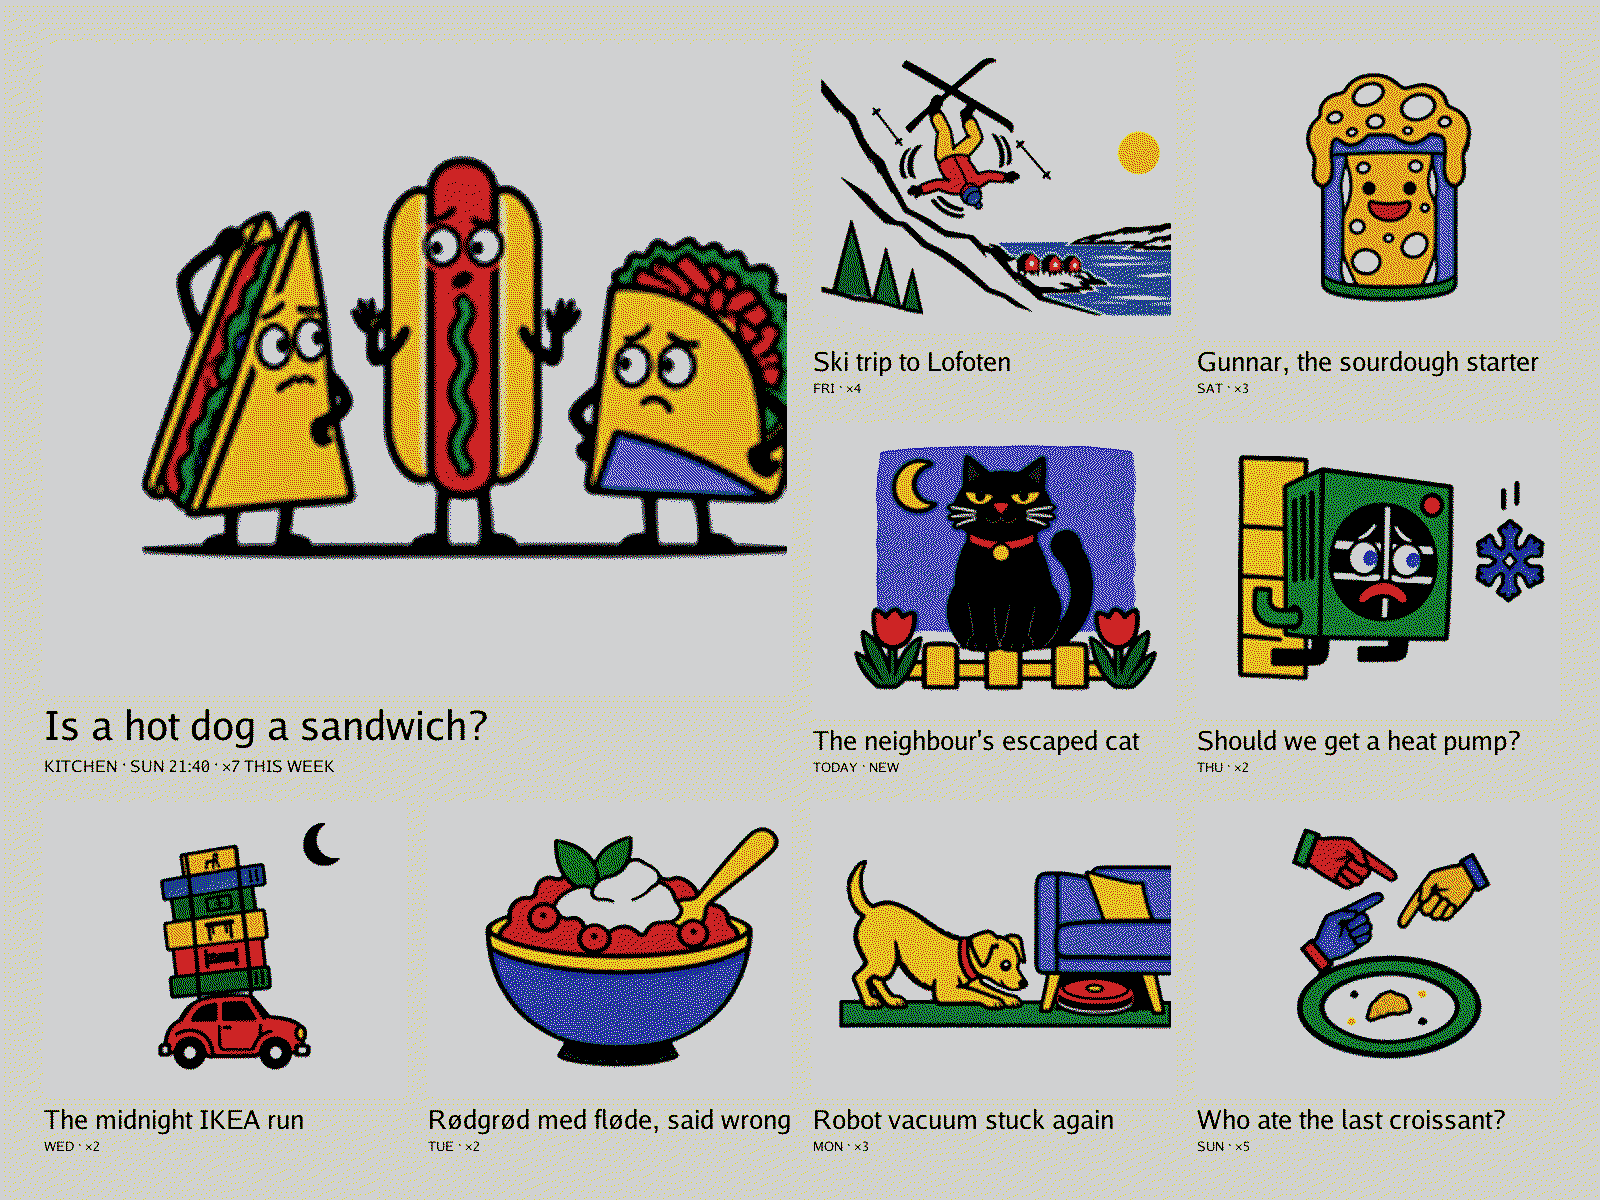
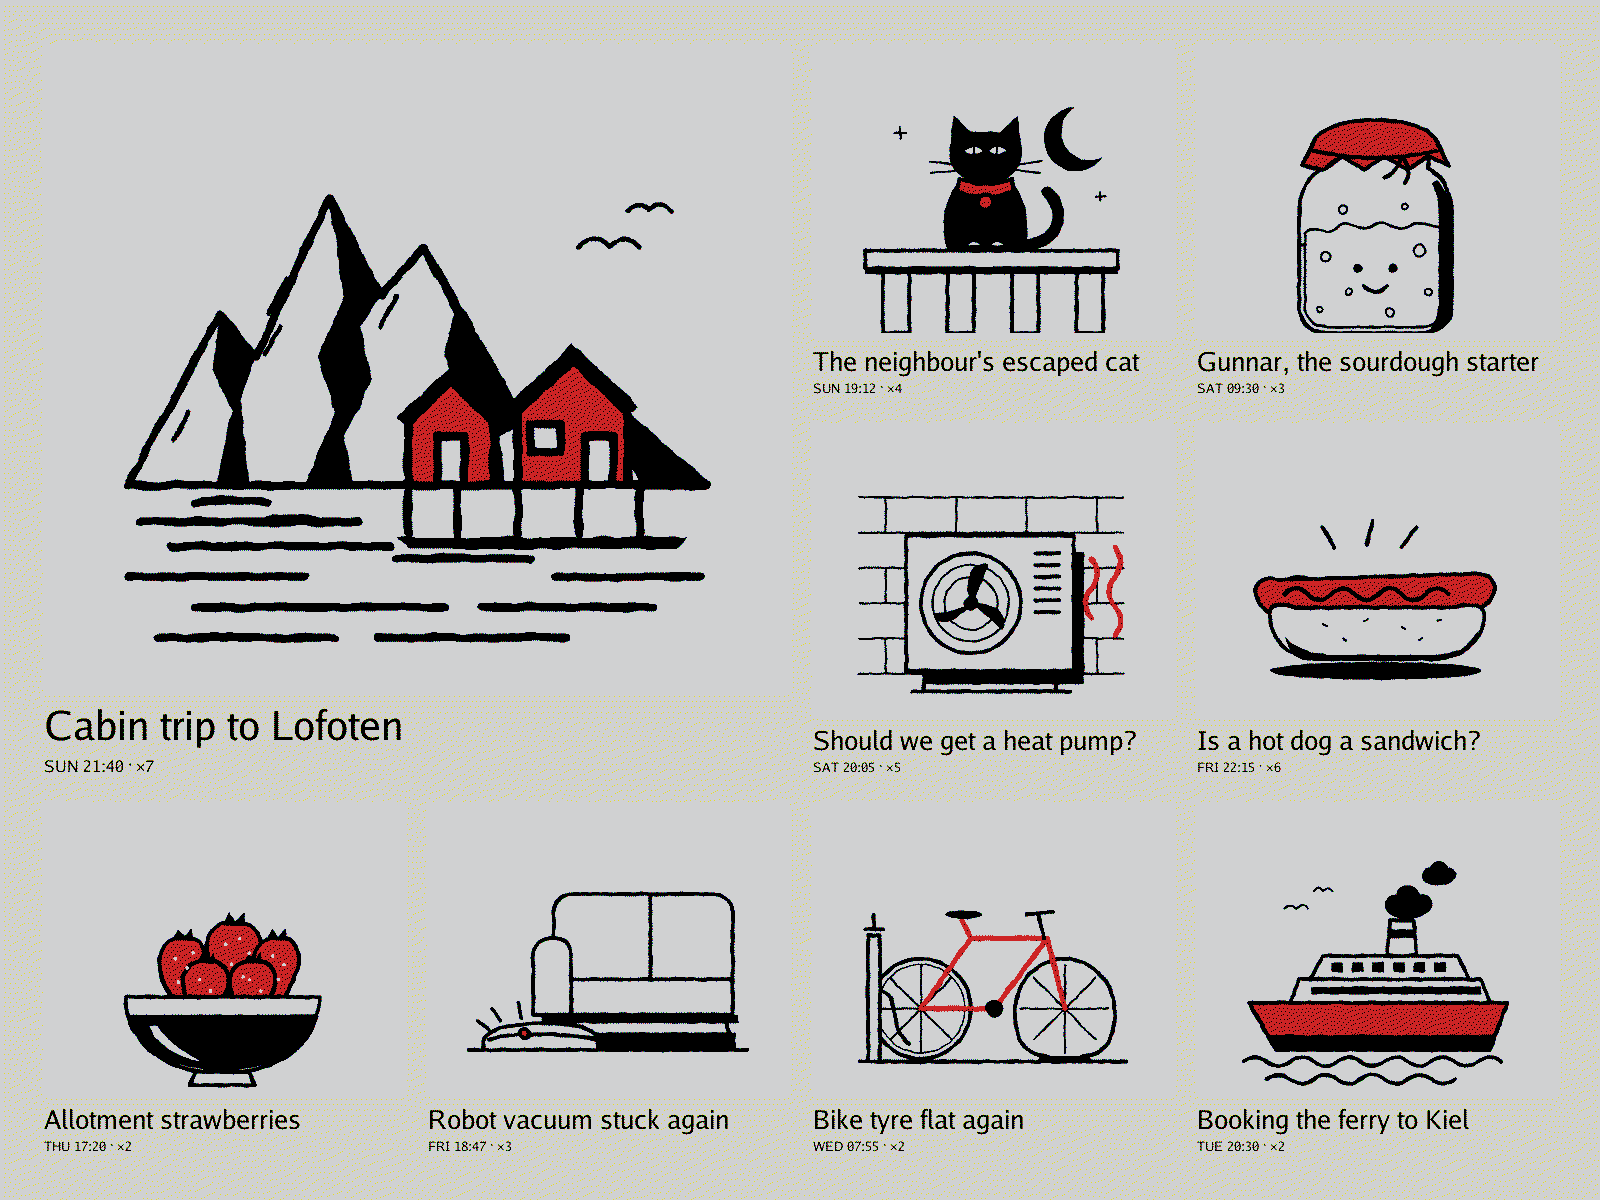
Redraw the README frame example in the Ink and red style (#9)
The example page now comes out of the same code as the settings page
preview: collage.Render with the real caption format ("SUN 21:40 · ×7"),
then panel.Dither. The nine tile pictures are hand-drawn ink-and-red
stand-ins, not AI output.

Claude-Session: https://claude.ai/code/session_01CPYJmcczwKgqjezacCdLTg

diff --git a/README.md b/README.md
@@ -3,9 +3,9 @@ A picture frame that listens to the room and paints what you talk about. Speech-
 
 <p align="center">
   <img src="docs/collage-example.png" width="640"
-       alt="An E-maki page dithered to six e-ink colours: a big cartoon of a hot dog arguing with a sandwich and a taco, captioned 'Is a hot dog a sandwich?', surrounded by eight smaller cartoons for topics like a ski trip to Lofoten, a sourdough starter, an escaped cat, a heat pump and a midnight IKEA run">
+       alt="An E-maki page dithered to six e-ink colours, drawn as black ink with red accents: a big picture of red fishing cabins under steep mountains, captioned 'Cabin trip to Lofoten', surrounded by eight smaller drawings for topics like an escaped cat, a sourdough starter, a heat pump, a hot dog, a robot vacuum and a ferry">
   <br>
-  <em>An example page, laid out and dithered by E-maki's own code for a 13.3" Spectra 6 panel. The topics are made up, and the cartoons come from an AI image model.</em>
+  <em>An example page, laid out and dithered by E-maki's own code for a 13.3" Spectra 6 panel. The topics are made up, and the pictures are hand-drawn stand-ins for the "Ink and red" style.</em>
 </p>
 
 <p align="center">
